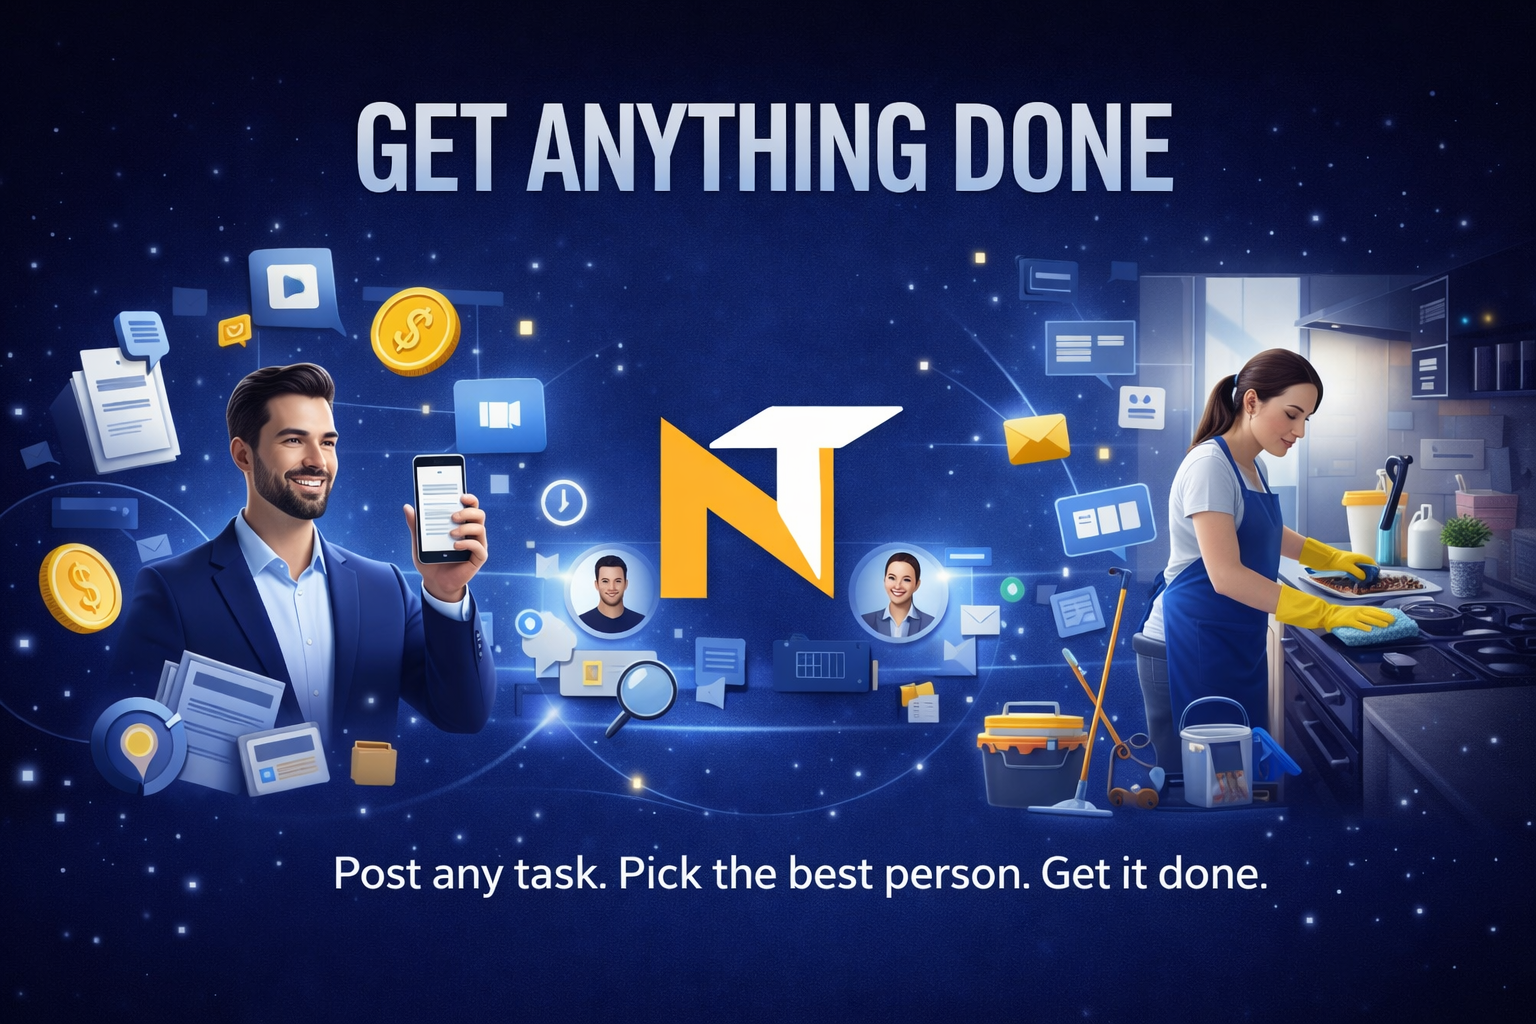
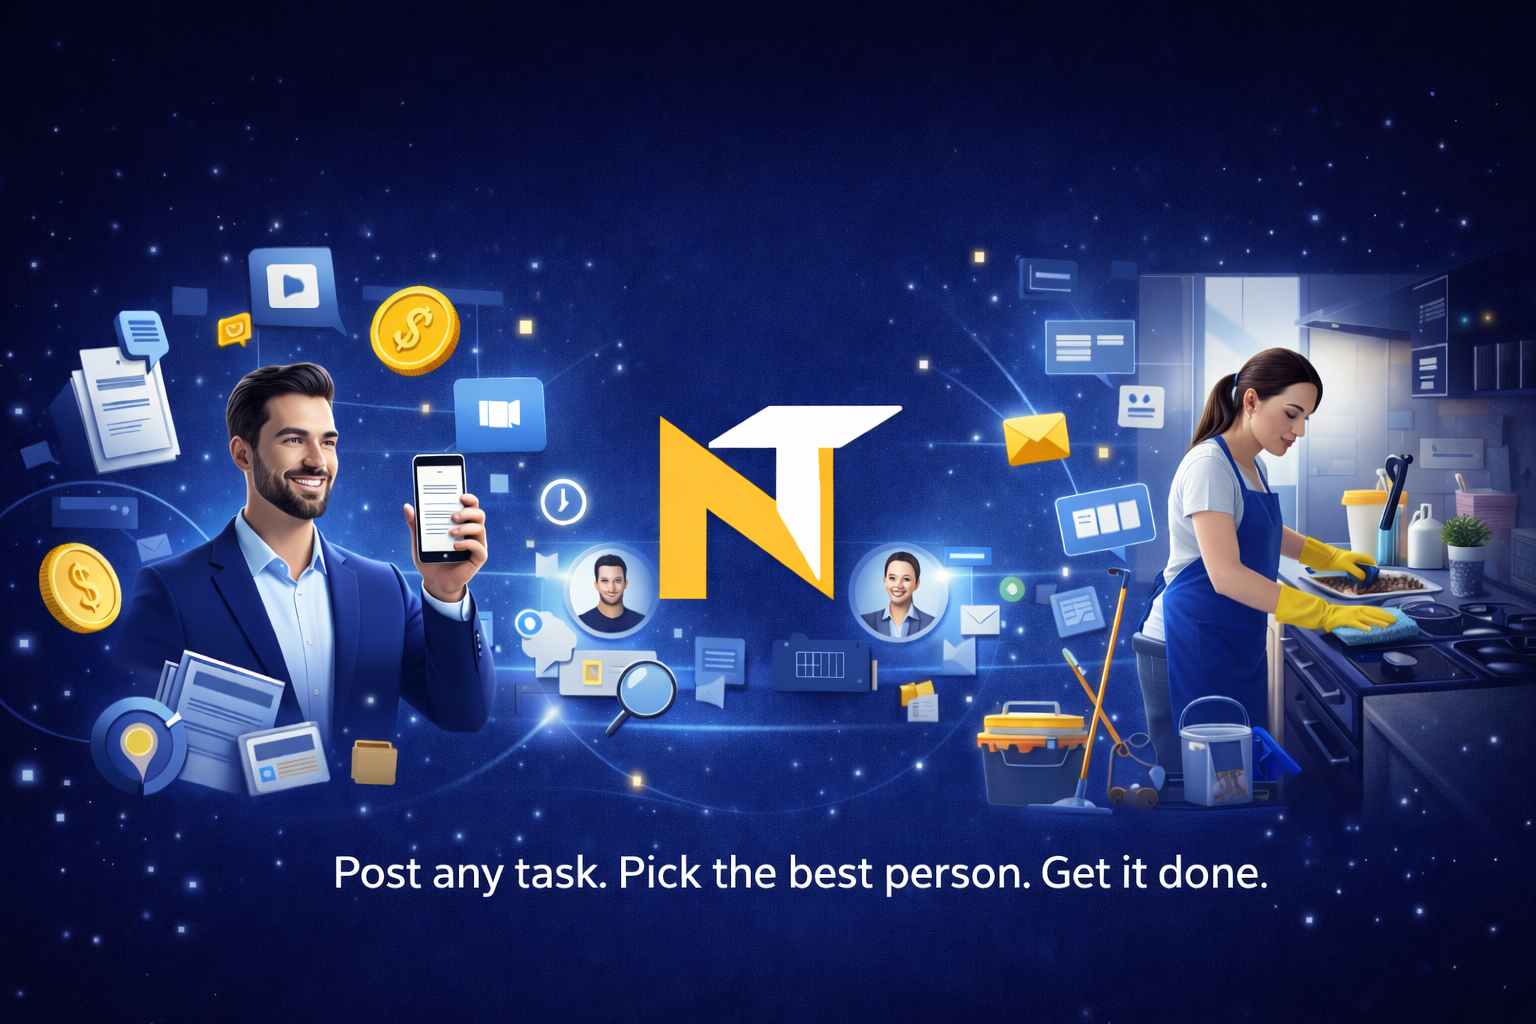
okk

diff --git a/src/pages/Home.jsx b/src/pages/Home.jsx
@@ -59,7 +59,7 @@ export default function Home() {
       <section
         className="relative text-white overflow-hidden bg-cover bg-center min-h-screen flex items-center"
         style={{
-          backgroundImage: `linear-gradient(rgba(10,15,50,0.75), rgba(15,20,60,0.85)), url(${heroPoster})`,
+          backgroundImage: `linear-gradient(rgba(10,15,50,0.05), rgba(15,20,60,0.10)), url(${heroPoster})`
           backgroundSize: 'cover',
           backgroundPosition: 'center',
         }}
